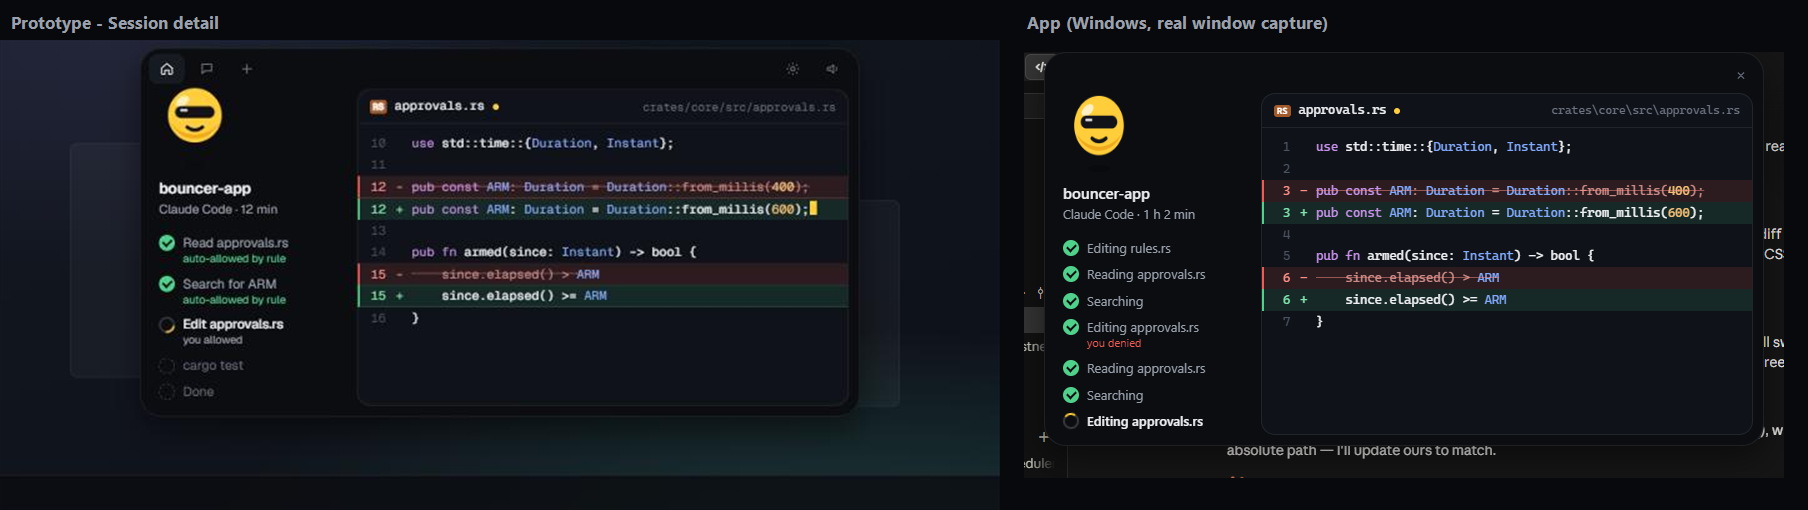
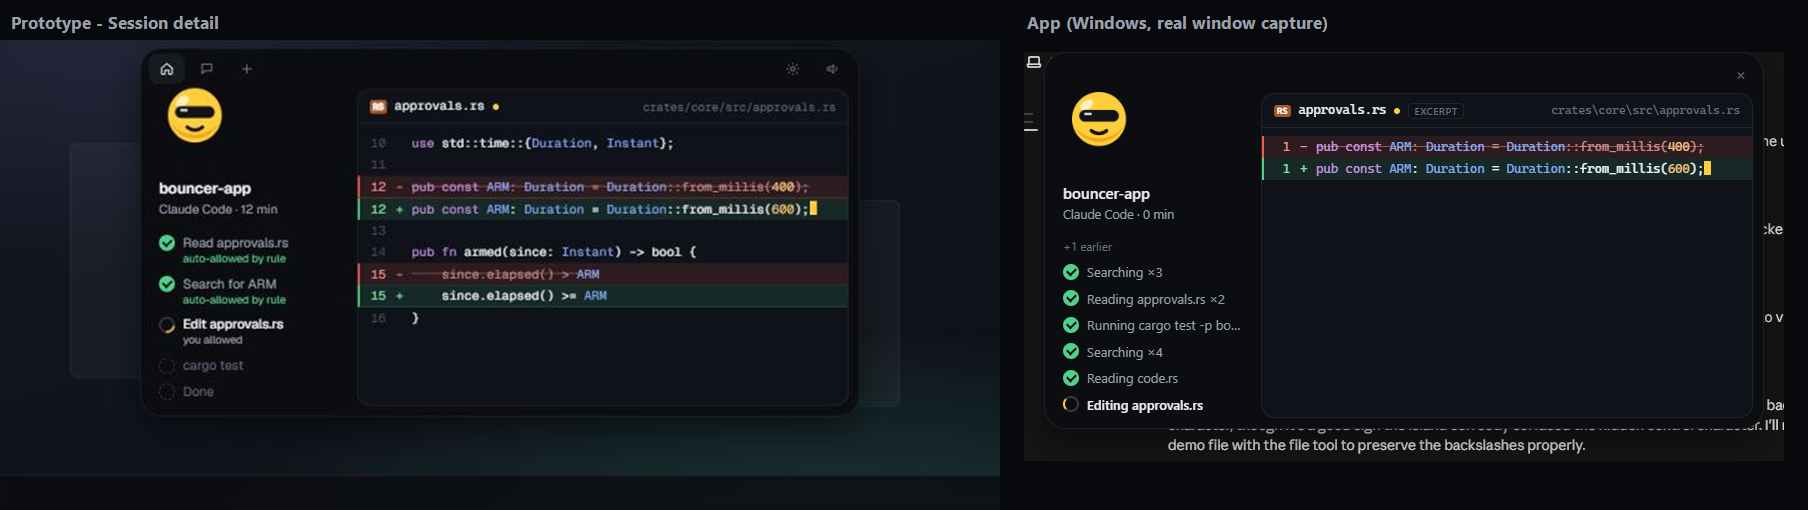
docs(design): updated Session detail screenshot; note #5 review fixes

diff --git a/docs/PLAN.md b/docs/PLAN.md
@@ -562,6 +562,12 @@ Manual checks:
   Write cards now show path, blank line, content as the prototype.
 - Dev only: two quick hot reloads can leave the old page's `subscribe` last, so
   updates go to a dead page until the next reload. Not reachable outside dev.
+- Review of #5 (Charan): the WebView2 debug port used for the captures was set
+  inline for one dev run only (not in the user or machine environment; checked
+  in the registry). Release builds now clear `WEBVIEW2_ADDITIONAL_BROWSER_ARGUMENTS`
+  at startup. Session detail groups repeated steps ("Searching ×3"), shows the
+  latest 6 with "+N earlier", and marks Edit diffs "Excerpt" (checked in the
+  real window).
 
 ## Phase 3 — Rules engine (~1.5 weeks)
 
